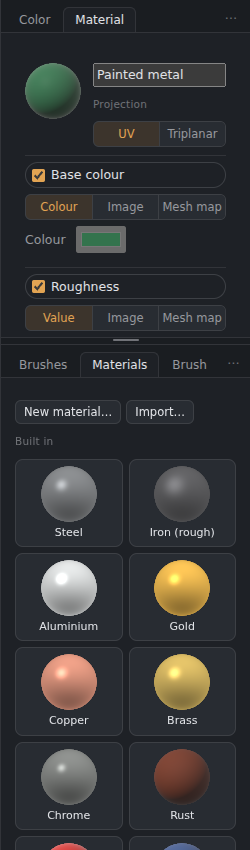
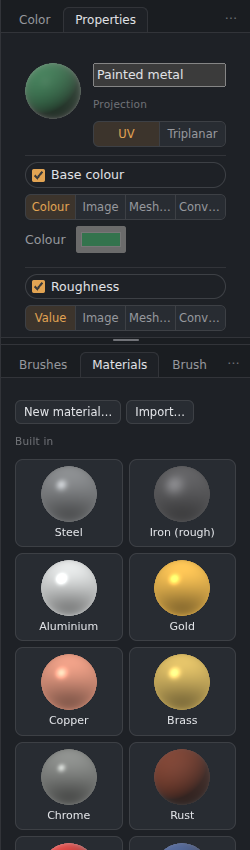
0.23.0 version, notes, guide (Masks and effects page) and screenshots
Claude-Session: https://claude.ai/code/session_01WJePYPrjK4D9b8oB4M9bDj

diff --git a/src/js/layers/mat-convert.js b/src/js/layers/mat-convert.js
@@ -50,10 +50,11 @@ function dlgMatConvert(L){L=L||doc.active;if(!isLayer(L)||L.fx){toast('Select a 
     makeSlider({id:'mc_r',label:'Radius',min:1,max:32,step:.5,value:c.r,fmt:v=>v+'px',onInput:v=>{c.r=v;}}).el,
     makeSlider({id:'mc_s',label:'Strength',min:.1,max:4,step:.05,value:c.str,fmt:pct,onInput:v=>{c.str=v;}}).el,
     makeSlider({id:'mc_aor',label:'AO reach',min:2,max:96,step:1,value:c.aoR,fmt:v=>v+'px',onInput:v=>{c.aoR=v;}}).el,
-    makeSlider({id:'mc_top',label:'Roughness on tops',min:0,max:1,step:.01,value:c.top,fmt:pct,onInput:v=>{c.top=v;}}).el,
-    makeSlider({id:'mc_gap',label:'Roughness in gaps',min:0,max:1,step:.01,value:c.gap,fmt:pct,onInput:v=>{c.gap=v;}}).el,
+    el('div',{class:'sub',text:'Roughness: tops and gaps'}),
+    makeSlider({id:'mc_top',label:'Tops',min:0,max:1,step:.01,value:c.top,fmt:pct,onInput:v=>{c.top=v;}}).el,
+    makeSlider({id:'mc_gap',label:'Gaps',min:0,max:1,step:.01,value:c.gap,fmt:pct,onInput:v=>{c.gap=v;}}).el,
     el('div',{class:'frow'},el('label',{text:'Bare metal on'}),seg([['edge','Worn edges'],['cav','Cavities']],c.metalOn,v=>{c.metalOn=v;},'Bare metal on')),
-    makeSlider({id:'mc_ma',label:'Metal amount',min:0,max:1,step:.01,value:c.metalAmt,fmt:pct,onInput:v=>{c.metalAmt=v;}}).el,
+    makeSlider({id:'mc_ma',label:'Metal',min:0,max:1,step:.01,value:c.metalAmt,fmt:pct,onInput:v=>{c.metalAmt=v;}}).el,
     el('div',{class:'sub',text:'Send to (any of them)'}),
     chk('mc_toMesh','Mesh maps, as converted maps (masks, generators and the Converted tab use them)',c.toMesh,v=>{c.toMesh=v;}),
     chk('mc_toBaked','Also add them onto the baked maps',c.toBaked,v=>{c.toBaked=v;}),

diff --git a/src/js/ui/layers-panel.js b/src/js/ui/layers-panel.js
@@ -226,7 +226,7 @@ function layerMenu(e,n){const pop=$('#menuPop');closeMenu();const lay=isLayer(n)
   const it=(t,f,key,dis)=>{const b=el('button',{class:'mi',role:'menuitem',disabled:!!dis,onclick:()=>{pop.hidden=true;f();}},el('span'),el('span',{text:t}),el('span',{text:key||''}));return b;};
   const head=t=>el('div',{class:'mh',text:t});const sep=()=>el('div',{class:'msep'});
   const items=[];
-  if(!anim){if(n.mask)items.push(it('Delete mask',cmdDeleteMask));else items.push(it('Add mask',()=>cmdAddMask(1)),it('Add black mask (hide all)',()=>cmdAddMask(0)),...(lay&&typeof liveMaskStart==='function'?[it('Live mask…',()=>liveMaskStart(n))]:[]));}
+  if(!anim){if(n.mask)items.push(it('Delete mask',cmdDeleteMask),...(typeof msHas==='function'&&msHas(n)?[it('Flatten mask (keep the result, drop its rows)',()=>msFlatten(n))]:[]));else items.push(it('Add mask',()=>cmdAddMask(1)),it('Add black mask (hide all)',()=>cmdAddMask(0)),...(lay&&typeof liveMaskStart==='function'?[it('Live mask…',()=>liveMaskStart(n))]:[]));}
   if(lay&&!anim){items.push(sep(),head('Layer style'));for(const k of STYLE_ORDER)items.push(it(STYLE_DEFS[k].label+(n.styles&&n.styles[k]&&n.styles[k].on?' ✓':''),()=>dlgLayerStyle(k,true)));
     items.push(it('All styles…',()=>dlgLayerStyle()),sep(),it('Filter layer above…',cmdNewFxLayer),it('Array…',()=>setTool('array')));
     if(n.fill)items.splice(0,0,it('Fill settings…',()=>dlgFillLayer(n)),it('Mesh maps from this material…',()=>dlgMatConvert(n)),sep());

diff --git a/docs/wiki/Masks-and-effects.md b/docs/wiki/Masks-and-effects.md
@@ -1,0 +1,66 @@
+# Masks and effects
+
+A layer's mask can hold **rows of its own**, like Substance Painter's mask effects: paint, fills, baked maps, ID colours, noise, generators and filters, stacked and blended. They sit **under the layer** in the Layers panel. Everything stays live: change a row at any time and the mask follows. The same works in 3D Paint and in the Paint tab.
+
+![Mask rows under a layer, with the selected row in Properties.](images/mask-rows.png)
+*“Painted metal” shows through a mask made of a white fill, Edge wear, a grunge noise on Multiply and Levels. Edge wear is selected, so its settings are in Properties.*
+
+## Adding rows
+Select the layer, click its **mask thumbnail**, then press **✦** (the effects button under the layers) and pick a row. A layer without a mask gets one.
+
+Click the layer's own thumbnail instead, and ✦ adds **effects to the layer's content** (blue **fx** rows): filters such as Blur, Levels or Hue/Saturation that change the layer's own maps before it is blended.
+
+## The rows
+Rows are listed under the layer, **top first**. Each has an **eye**, its **blend mode** and **opacity**, and **✕** to delete it.
+- **Click** a row to change it in **Properties** (the tab beside Colour).
+- **Drag** a row up or down to reorder it.
+- **▾** on the layer folds its rows away.
+- Red **▣** rows are in the mask; blue **fx** rows are on the content.
+
+Blend modes: Normal, Multiply, Add, Subtract, Screen, Min, Max and Overlay. A row covers what is below it where it is white or grey. **Filters change everything below them** in the mask.
+
+## What a mask can hold
+| Row | What it does |
+|---|---|
+| **Paint** | Paint on the model or the canvas: white shows the layer, black hides it. The eraser takes paint away again. A new Paint row changes nothing until you paint on it. |
+| **Fill white / black** | The whole mask, flat. |
+| **Mesh map** | A baked map of the texture set (AO, curvature, thickness, height…), or a converted one (see below). |
+| **ID colour** | Pick colours of the baked ID map (Tolerance, Softness, Invert). |
+| **Direction** | Faces pointing up (dust, snow), down, or along an axis, with an angle and softness. |
+| **Gradient** | From bottom to top, or side to side, over the model. |
+| **Noise** | Clouds, Cells, Grunge, Scratches, Streaks, Dots or Fibres, triplanar on the model so there are no seams. |
+| **Picture** | Your own image, tiled or triplanar. |
+| **Another layer's mask** | Follows that mask, live. |
+| **Generator** | The presets: Edge wear, Dirt in cavities, Dust on top, Moss, Rust streaks, Water line, Slime, Crud, Chipped paint, Scratches, Snow on top, Soot, Drips and leaks, Sun-bleached. Each has Amount, Width, Breakup, Contrast, noise size and seed. |
+| **Filters** | Levels, Curves, Threshold, Posterize, Invert, Blur, Box blur, Motion blur, Sharpen, High pass, Edges, plus **Grow / shrink**, **Warp** (breaks up clean edges) and **Slope blur** (smears along a noise). |
+
+Generators read the texture set's baked curvature and AO. Without a bake they use curvature worked out from the model, which is rougher, so bake for the best results. On the flat Paint canvas, "up" is the top of the texture.
+
+**Flatten mask** (right-click the layer) keeps the result as a plain mask and drops the rows.
+
+## Mask mode
+**Alt + click** the mask thumbnail to see the mask on the model in black and white. The bar has **Paint** (nothing paints until it is on), **Box**, **Lasso**, **Polygon** and **ID colour**; see [3D Paint](3D-Paint.md#mask-mode). Painting goes into the selected Paint row, or the top one, or a new one.
+
+## Live mask (a layer without a mask)
+**Right-click a layer › Live mask…** (or ✦ › Live mask) gives a layer without a mask the same tools, as a **live selection**: pick ID colours, add a mesh map, a generator or a noise, or draw a shape with Box, Lasso or Polygon on the model. Painting and fills stay inside it.
+
+![The live mask bar.](images/live-mask.png)
+
+**Keep…** asks what to do with it:
+- **As a mask stack:** the layer gets a mask made of those rows, still live.
+- **Apply to the layer:** the layer is cut to it (what is outside is erased), and no mask is added.
+
+**Close** stops it without keeping anything.
+
+## Mesh maps from a material
+**Filter › Mesh maps from material…** (or right-click a material layer) reads the material's **height**, or its normal, and makes **Curvature**, **Cavity AO**, **Edges**, **Creases**, **Roughness** (smooth on the tops, rough in the gaps) and **Metallic** (bare metal on worn edges or in cavities).
+
+![Mesh maps from a material.](images/mat-convert.png)
+
+Tick where they go (any of them):
+- **Mesh maps**, as *converted* maps: mask rows, generators and the **Converted** tab of the Properties panel use them.
+- **Added onto the baked maps**, so the baked curvature and AO also show the material's bumps.
+- **New layers.**
+- **Into the material's own roughness and metallic**, linked to the converted maps.
+
+In Properties, each channel of a material can be a colour or value, an **Image**, a **Mesh map** (baked) or a **Converted** map.

diff --git a/docs/wiki/Layers.md b/docs/wiki/Layers.md
@@ -33,7 +33,9 @@ In documents with several maps, each layer has **a blend mode per map**. The mod
 
 Click the mask thumbnail to paint the mask. **Shift+click** turns the mask off or on, and **Alt+click** views it (with a bar to paint, fill, invert, select with a box, lasso or polygon, or pick ID colours; see [3D Paint](3D-Paint.md#mask-mode)).
 
-**Right-click › Mask from mesh map** makes the mask from a baked map of the texture set: AO, curvature, thickness or height. **Layer › Apply mask** bakes the mask into the layer; **Delete mask** removes it.
+**Right-click › Mask from mesh map** makes the mask from a baked map of the texture set: AO, curvature, thickness or height.
+
+A mask can hold **rows** (paint, mesh maps, ID colours, noise, generators, filters), listed under the layer, and a layer can have **content effects**. See [Masks and effects](Masks-and-effects.md). **Layer › Apply mask** bakes the mask into the layer; **Delete mask** removes it.
 
 **Pictures into a mask** (light shows the layer, dark and see-through parts hide it):
 - **Paste:** click the mask thumbnail, then **Ctrl+V**. A copied part (or an image copied in another program) lands in the mask with Free transform on: move or scale it, then press **Enter**. This works in the quick mask (Q) too.
@@ -43,8 +45,8 @@ Click the mask thumbnail to paint the mask. **Shift+click** turns the mask off o
 ## Fill (material) layers
 A fill layer is like one in Substance Painter: a material that fills each map with one colour or value, or with a picture. Make one with **Layer › New fill layer…**, the fill button under the layers, or the right-click menu. If a selection is active it becomes the fill layer's mask.
 
-![The Material panel.](images/material-panel.png)
-*The Material panel (beside Colour) edits the selected fill layer.*
+![The Properties panel.](images/material-panel.png)
+*The Properties panel (beside Colour) edits the selected fill layer, or the selected mask or effect row.*
 
 - For each map (base colour, roughness, metallic, height, normal, emissive, opacity and the others in the document), tick it to fill it and choose **Colour/Value** or **Image**. A value is a slider (for example roughness 80%, metallic 100%). An image is stretched over the canvas; **Tile** repeats it and **Turn** rotates it.
 - **Height** images make bump detail (the normal follows the height), with **Bump strength**.
@@ -52,7 +54,7 @@ A fill layer is like one in Substance Painter: a material that fills each map wi
 - Each channel can also take a **Mesh map**: one of the baked maps of the texture set (AO, curvature…; see [3D Paint](3D-Paint.md#mesh-maps-from-the-bake-tab)).
 - The panel offers to add any map the document is missing. **Save to Materials** keeps the material in the Materials tab (see [3D Paint](3D-Paint.md#materials)).
 - **Painting on a fill layer paints its mask:** black hides the fill, white shows it. So you can paint where the metal or the rust goes.
-- The settings are in the **Material** panel, a tab beside Colour. It shows the selected fill layer and changes it live; each change becomes one undo step once you pause. **Double-click its thumbnail** (or right-click › Fill settings…) brings the panel forward. **Convert to pixels** makes it a normal layer.
+- The settings are in the **Properties** panel, a tab beside Colour. It shows the selected fill layer and changes it live; each change becomes one undo step once you pause. **Double-click its thumbnail** (or right-click › Fill settings…) brings the panel forward. **Convert to pixels** makes it a normal layer.
 - Fill layers are kept in .gouache files with their images, so they stay editable.
 
 ## History

diff --git a/RELEASE_NOTES.md b/RELEASE_NOTES.md
@@ -1,13 +1,11 @@
-3D Paint feels more like Substance Painter: a Material panel, mask tools and ID colour masks.
+Masks and effects, like Substance Painter: a mask can hold rows of its own, listed under the layer.
 
-- **Material panel** beside Colour: it edits the selected material layer live (no more pop-up window). Each change is one undo step once you pause.
-- **Mesh map** in materials: any channel can use one of the texture set's baked maps (AO, curvature, thickness…).
-- **Right-click a layer › Mask from mesh map**: the mask becomes the baked AO, curvature, thickness or height.
-- **Mask mode** (Alt+click a mask):
-  - Nothing paints until you press **Paint**.
-  - **Box**, **Lasso** and **Polygon** select what you see on the model. Drag inside the shape to move it.
-  - **ID colour**: click the model to pick colours of the baked ID map; they turn white in the mask. Tolerance, Softness and Invert, and it stays editable.
-  - Clicking the layer's own thumbnail leaves mask mode.
-- The **column beside the 3D view** (Colour, Material, Brushes, Materials) can be rearranged: drag tabs out of it or into it.
-- **Bake tab:** every bake has its own tab (World normal, Position and ID replace "Other").
-- **Levels** has a simple layout like Substance Painter's: drag the handles under the histogram and on the output bar. Sliders are one click away.
+- **Mask rows:** paint, white or black fills, baked **mesh maps**, **ID colours**, **direction** (dust on top), **gradients**, **noise** (triplanar, no seams), your own **pictures**, **another layer's mask**, and **generators**: Edge wear, Dirt in cavities, Dust on top, Moss, Rust streaks, Water line, Slime, Crud, Chipped paint, Scratches, Snow on top, Soot, Drips and leaks, Sun-bleached.
+- **Filters in masks:** Levels, Blur, Threshold, Posterize, Invert and more, plus Grow/shrink, Warp and Slope blur. A filter changes everything below it.
+- Each row has an eye, a blend mode and opacity. Drag rows to reorder them, and ▾ folds them away. Everything stays live.
+- **Content effects** (blue fx rows): filters on the layer's own maps.
+- **Properties** (the tab beside Colour, formerly Material) shows the selected row's settings, or the material's.
+- **✦ button** under the layers adds rows to the mask (mask thumbnail selected) or effects to the layer.
+- **Live mask** on a layer without a mask (right-click › Live mask…): ID colours, mesh maps, generators or shapes limit where you paint. **Keep…** makes it a mask stack, or cuts the layer to it.
+- **Filter › Mesh maps from material…** makes curvature, cavity AO, edges, creases, roughness and metallic from a material's height or normal. They can go into the mesh maps (a new **Converted** tab in Properties), onto the baked maps, into new layers, or into the material's own roughness and metallic.
+- Painting on a mask with rows goes into its Paint row; the eraser takes paint away again.

diff --git a/docs/wiki/Home.md b/docs/wiki/Home.md
@@ -10,6 +10,7 @@ Gouache Studio is a GPU-powered painting and texture app for hand-painted and PB
 ## Painting
 - [Brushes and painting](Brushes-and-painting.md): brushes, presets, colour jitter, making your own tips, Photoshop brushes, pen pressure, eraser, blend, dodge and burn
 - [Layers](Layers.md): layers, groups, masks, fill layers, the right-click menu, blend modes, clipping, text, live gradients
+- [Masks and effects](Masks-and-effects.md): rows under a layer's mask (paint, mesh maps, ID colours, noise, generators, filters), content effects, the live mask, mesh maps from a material
 - [Shapes, arrays and layer styles](Shapes-arrays-and-layer-styles.md): shapes with bevels, repeating a layer in a line, grid or circle, drop shadows, strokes, bevels and more
 - [Selections, transforms and crop](Selections-transforms-and-crop.md)
 - [Fills and gradients](Fills-and-gradients.md)
@@ -61,5 +62,6 @@ Gouache Studio is a GPU-powered painting and texture app for hand-painted and PB
 | 17 | Fill layers, own canvas for Bake and Convert, bake export, right-click layer menu, resizable dock | 0.20 |
 | 18 | 3D Paint tab (texture sets, Substance-style layers, mirror, stencils, selections) | 0.21 |
 | 19 | Material layers and the Materials tab, triplanar, mask mode, bake to 3D Paint per material, ID from vertex colours/polypaint, floating dialogs, History, lazy mouse; Material panel, mesh maps in materials and masks, mask tools and ID colour masks, Substance-style Levels (0.22.2) | 0.22 |
-| 20 | Layer stacks inside masks, Mask Builder (generators, smart masks), mask effects, smart materials, anchor points, baking inside 3D Paint | 0.23 |
-| 21 | PBR viewer with HDRIs, screenshots, ray-traced and turntable renders | 0.24 |
+| 20 | Masks and effects: rows under a layer (paint, mesh maps, ID colours, direction, gradients, noise, generators, filters), content effects, Properties panel, live mask, mesh maps from a material | 0.23 |
+| 21 | Smart materials, anchor points, baking inside 3D Paint | 0.24 |
+| 22 | PBR viewer with HDRIs, screenshots, ray-traced and turntable renders | 0.25 |

diff --git a/docs/wiki/3D-Paint.md b/docs/wiki/3D-Paint.md
@@ -76,7 +76,7 @@ A **loop** is the ring of quads crossing the edge you click nearest to. Faces an
 ## Materials
 The **Materials** tab sits beside Brushes. Click a material (Steel, Gold, Copper, Rust, Rubber, Plastic, your own…) to add it as a **material layer**. If a selection is active, it becomes the layer's mask; otherwise paint the mask to show the material where you want it.
 
-**New material…** makes a material layer and shows it in the **Material** panel (the tab beside Colour), which edits whichever material layer is selected. Double-clicking a material layer's thumbnail brings it forward.
+**New material…** makes a material layer and shows it in the **Properties** panel (the tab beside Colour), which edits whichever material layer (or mask row) is selected. Double-clicking a material layer's thumbnail brings it forward.
 
 ![The Material panel beside Colour, and the Materials tab.](images/material-panel.png)
 
@@ -92,9 +92,11 @@ In the Bake tab, tick **Bake each material separately**, then press **Send to 3D
 - The baked normal becomes a layer in the Normal map, so the high-poly detail shows on the model straight away.
 - **Add as layer** puts any mesh map in the layer stack.
 - Tick *also add them as layers* before sending to get AO (Multiply) and curvature (Overlay) layers automatically.
-- Material channels can use them (**Mesh map** in the Material panel), and **right-click a layer › Mask from mesh map** makes its mask from AO, curvature, thickness or height.
+- Material channels can use them (**Mesh map** in the Properties panel), and **right-click a layer › Mask from mesh map** makes its mask from AO, curvature, thickness or height.
 
 ## Mask mode
+Masks can hold rows (generators, noise, mesh maps, ID colours, filters…) and layers without a mask can have a live mask: see [Masks and effects](Masks-and-effects.md).
+
 **Alt + click a layer's mask** to see it on the model in black and white, without lighting. A bar appears at the top:
 
 ![Mask mode with ID colour.](images/mask-tools.png)

diff --git a/docs/wiki/Panels-and-workspaces.md b/docs/wiki/Panels-and-workspaces.md
@@ -11,7 +11,7 @@ The strip under the menus holds what you change all the time. For the brush, era
  Other tools show their name; their settings are in **Tool settings**. **Window › Options bar** hides it.
 
 ## The dock
-The right side is a column of **groups**; each group holds one or more panels as **tabs**: Color, Material, Brushes, Materials, Tool settings, Maps, Layers, Channels and History (plus Bake, Convert, Animation and Brush maker in their tabs of the app).
+The right side is a column of **groups**; each group holds one or more panels as **tabs**: Color, Properties, Brushes, Materials, Tool settings, Maps, Layers, Channels and History (plus Bake, Convert, Animation and Brush maker in their tabs of the app).
 - **Click a tab** to bring it to the front. **Double-click** it to fold the group down to its tabs (again to unfold).
 - **Drag the bars** between groups to make them taller or shorter.
 - **Drag the dock's left edge** to make the whole dock wider or narrower. Double-click the edge to go back to the usual width.

diff --git a/docs/wiki/Converters-and-filters.md b/docs/wiki/Converters-and-filters.md
@@ -33,6 +33,7 @@ Only the Normal map is in colour. Every other converted map is grey and lands in
 *Levels.*
 
 - **Color adjustments** (Ctrl+U): exposure, brightness, contrast, saturation, hue, temperature.
+- **Mesh maps from material…** (Filter menu): curvature, cavity AO, edges, creases, roughness and metallic from a material's height or normal; see [Masks and effects](Masks-and-effects.md#mesh-maps-from-a-material).
 - **Levels** (Ctrl+L): input black, midtones and input white; output black and white; per channel, with a histogram and **Auto**. **Simple** (the usual layout, like Substance Painter's) has handles to drag under the histogram and on the output bar, and **Invert**; **Sliders** shows a slider for each value.
 
   ![Levels, simple layout.](images/levels-simple.png)
